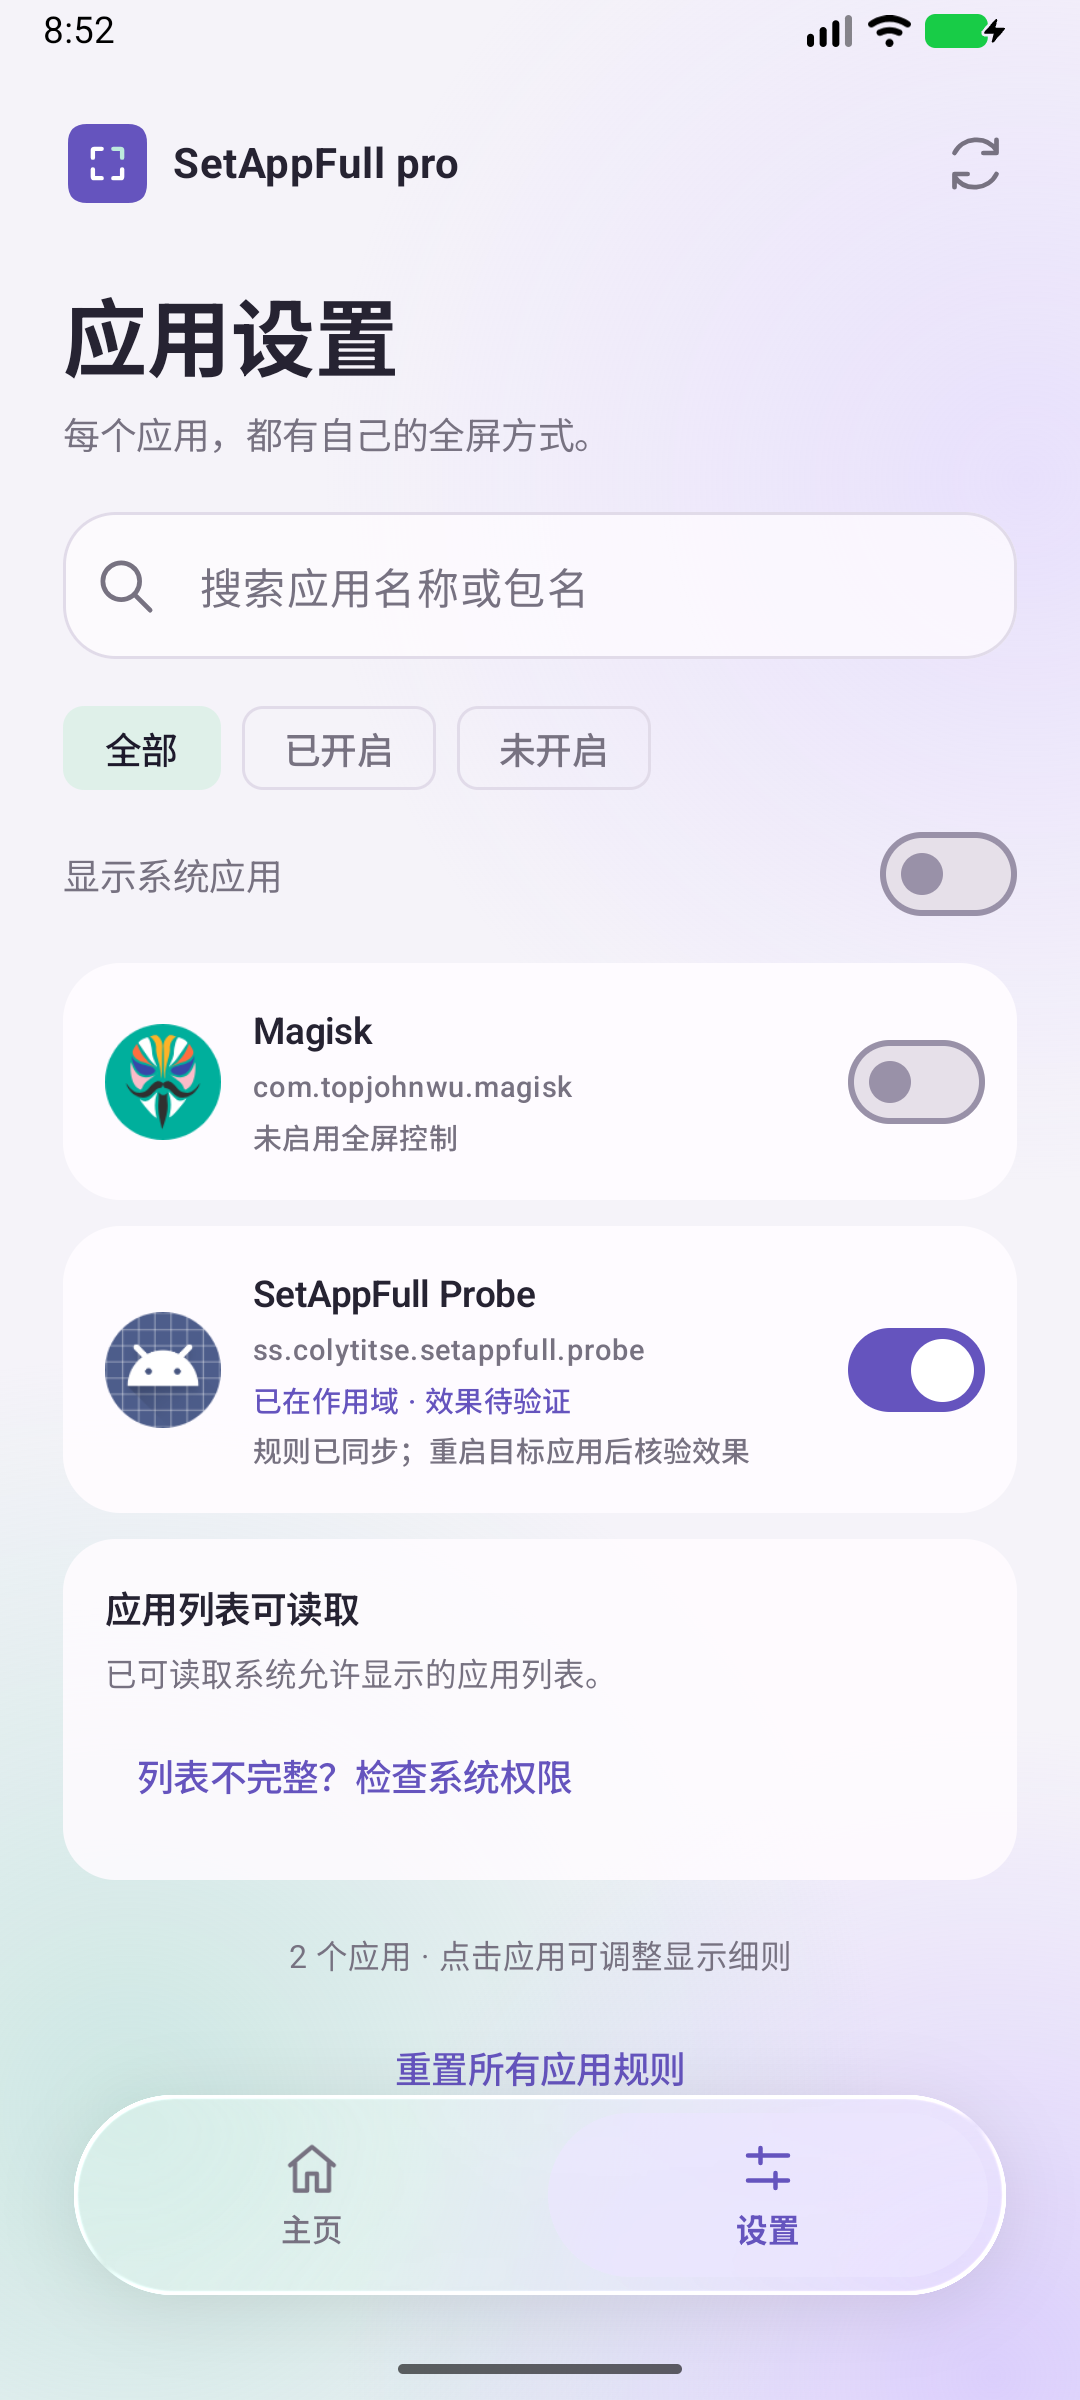
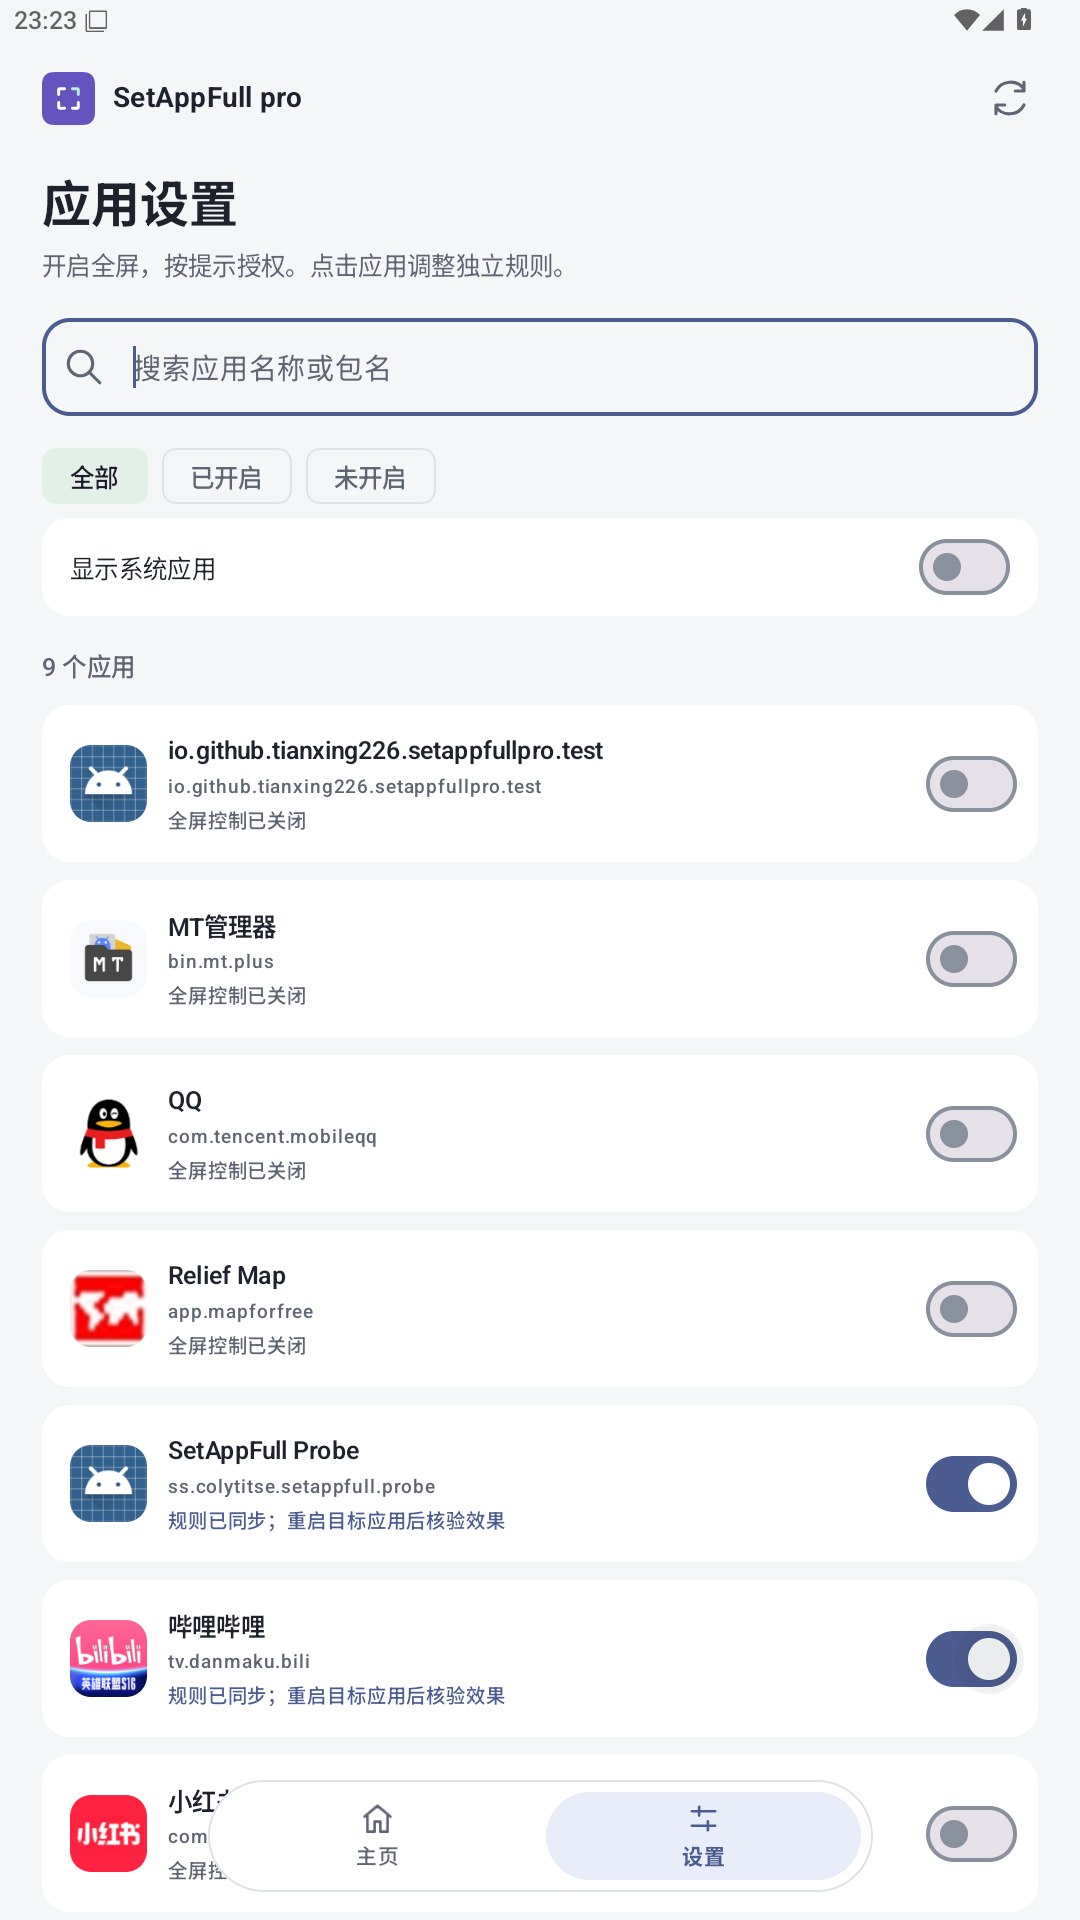
Add 2.0.6 verification screenshots

diff --git a/README_EN.md b/README_EN.md
@@ -56,7 +56,7 @@ The package name is `io.github.tianxing226.setappfullpro`. Versions 2.0.2 and la
 
 Fullscreen policies pause in multi-window, picture-in-picture, and floating windows. Navigation bar control is released when the keyboard appears. App-drawn black bars and security restrictions may remain.
 
-The Bilibili adjustment is restricted to `tv.danmaku.bili`. The new Story player adapter supports version codes `9130500` and `9140400` in portrait fullscreen, with fullscreen, hidden status bar, and cutout access enabled. Unknown versions retain their original player behavior. Disable “哔哩哔哩播放页优化” (Bilibili playback optimization) in the app's rule details to opt out. The adapter neither stretches nor crops video; aspect-ratio letterboxing and black bars encoded in the video may remain.
+The Bilibili adjustment is restricted to `tv.danmaku.bili`. The new Story player adapter recognizes version codes `9130500` and `9140400` in portrait fullscreen, with fullscreen, hidden status bar, and cutout access enabled. Unknown versions retain their original player behavior. Disable “哔哩哔哩播放页优化” (Bilibili playback optimization) in the app's rule details to opt out. The adapter retains the player's native aspect-ratio policy without forced stretching; native cropping, aspect-ratio letterboxing and encoded borders may remain. See the verification notes for the 9.14.0 MuMu startup limitation.
 
 See the [verification notes](docs/VERIFICATION_EN.md) for the devices, frameworks, and app versions actually tested, including unverified cases. Implemented functionality does not imply that every environment has passed acceptance testing.
 

diff --git a/README.md b/README.md
@@ -56,7 +56,7 @@
 
 多窗口、画中画和浮动窗口会暂停全屏策略，输入法出现时释放导航栏控制。应用自身绘制的黑边和安全限制不保证消除。
 
-哔哩哔哩专项处理仅针对 `tv.danmaku.bili`。新增的 Story 播放器适配限于版本代码 `9130500`、`9140400` 的竖屏全屏场景，需开启全屏、隐藏状态栏和延伸至挖孔区域；未知版本保留原播放器行为。可在应用详情中关闭“哔哩哔哩播放页优化”。适配不拉伸或裁切视频，宽高比留边及视频内嵌黑边可能保留。
+哔哩哔哩专项处理仅针对 `tv.danmaku.bili`。新增的 Story 播放器适配限于版本代码 `9130500`、`9140400` 的竖屏全屏场景，需开启全屏、隐藏状态栏和延伸至挖孔区域；未知版本保留原播放器行为。可在应用详情中关闭“哔哩哔哩播放页优化”。适配保持播放器原有比例策略，不强制拉伸；播放器原生裁切、宽高比留边及视频内嵌黑边仍可能存在。9.14.0 的 MuMu 启动限制见验证说明。
 
 不同设备、框架和应用版本的实际测试范围、未验证项见 [验证说明](docs/VERIFICATION.md)，功能已实现不代表所有环境均已通过验收。
 
